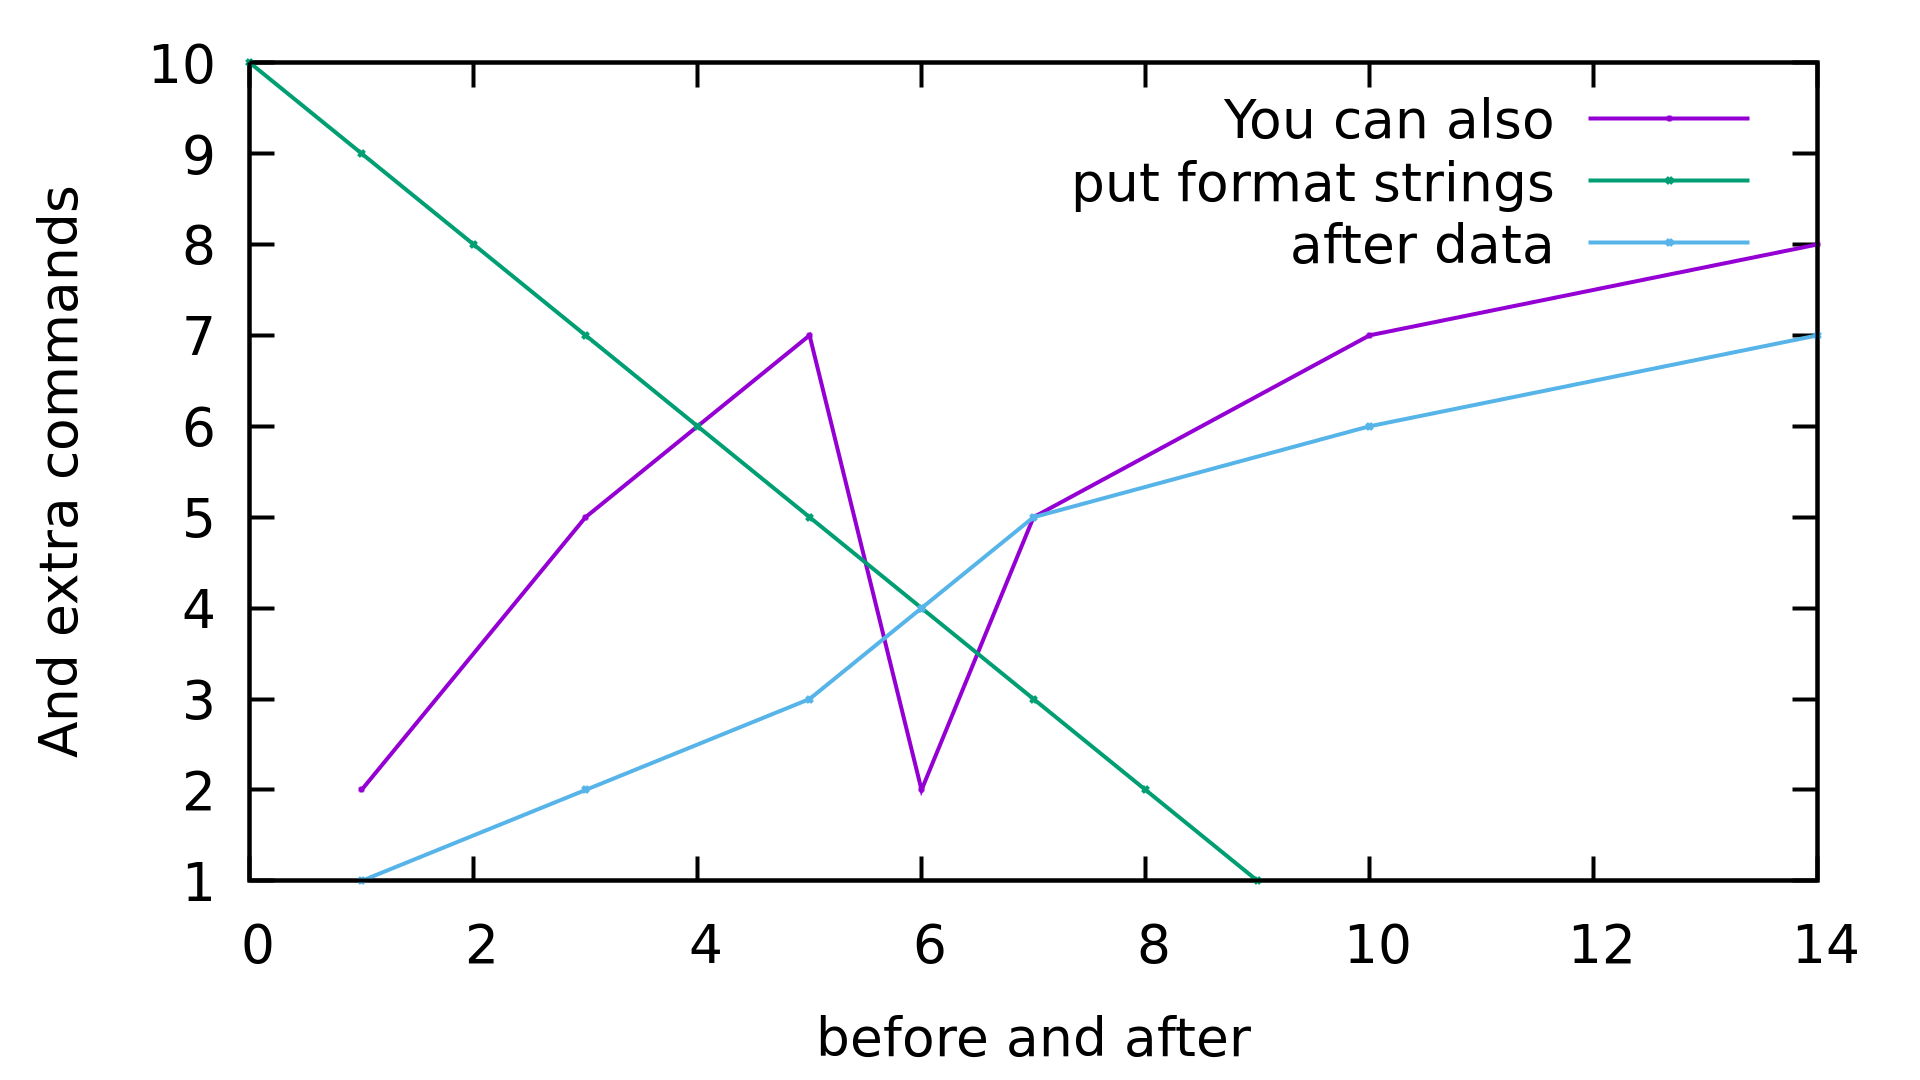
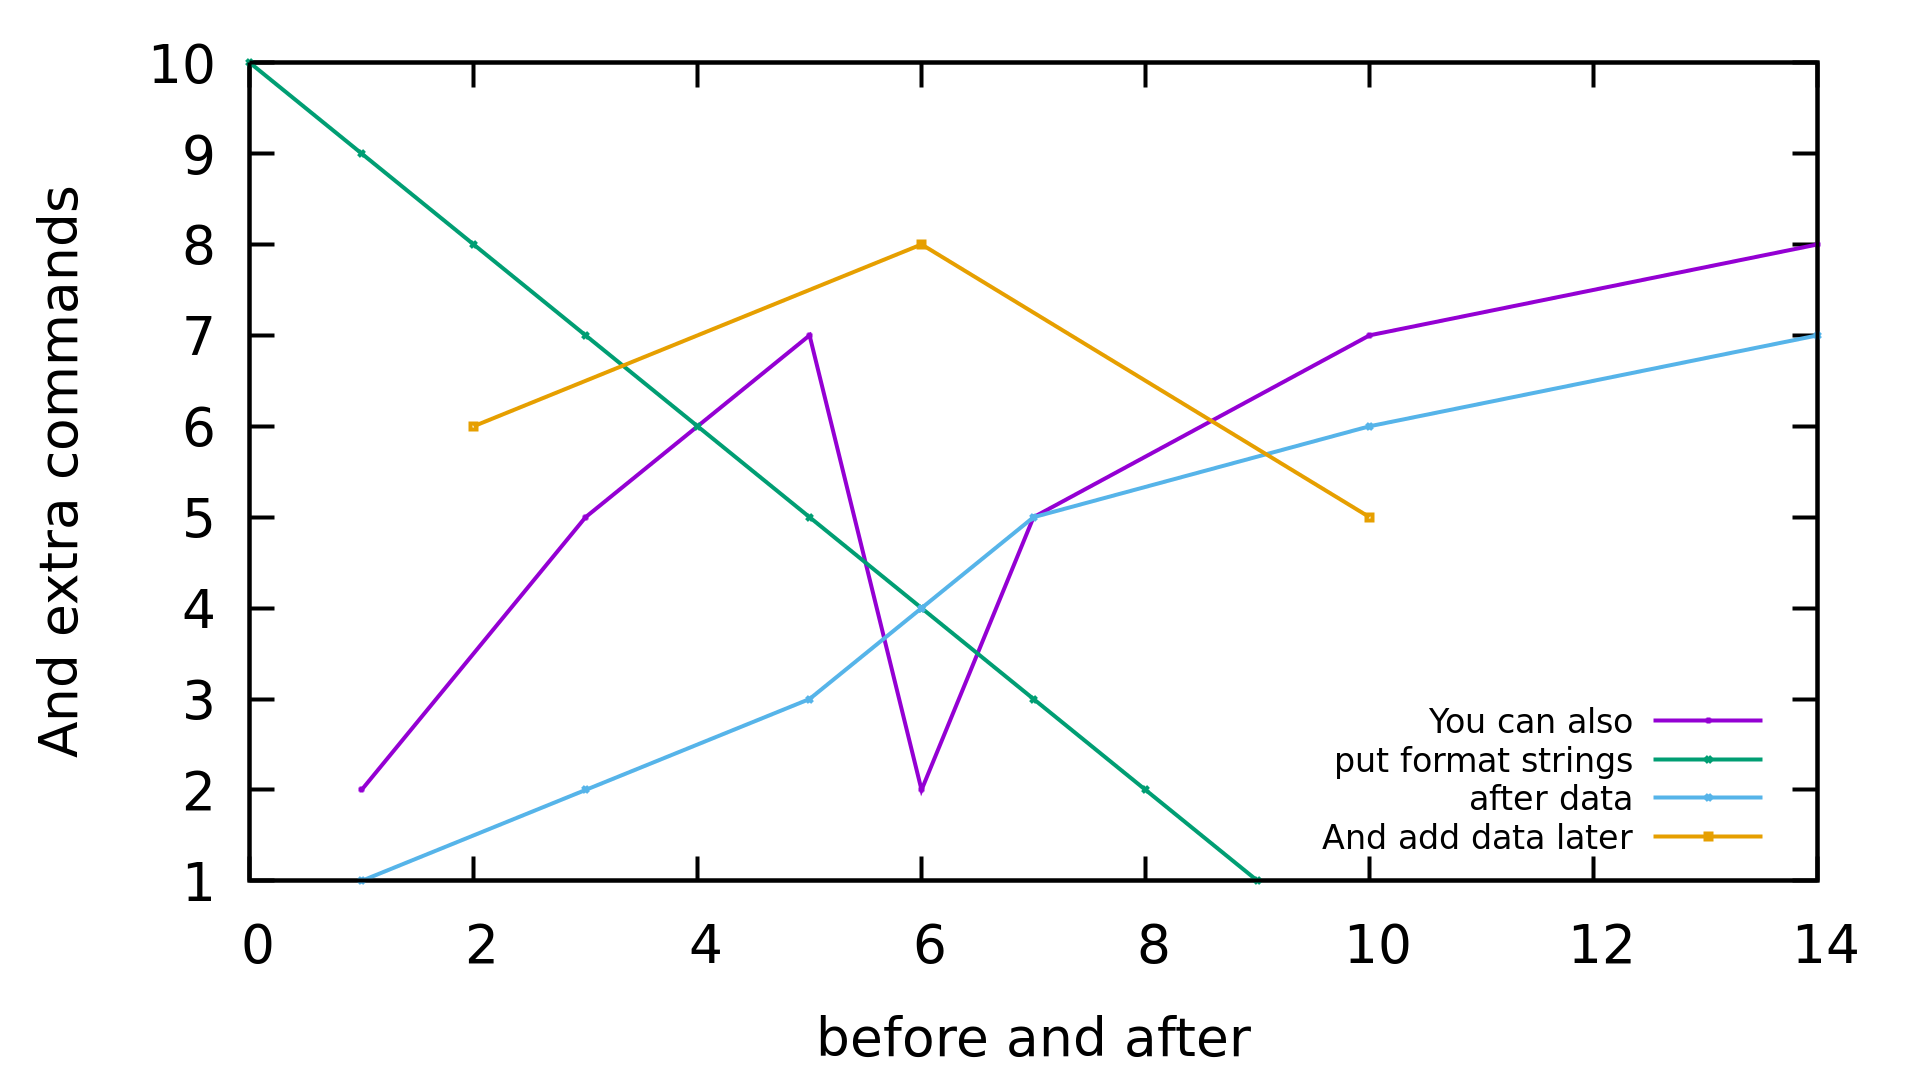
Add 3d plotting to README

diff --git a/README.md b/README.md
@@ -5,6 +5,7 @@ Interact with gnuplot via common lisp in a simple, intuitive manner. Made specif
 # Quick Example
 ```
 (require 'cl-gnuplot)
+(plt:reset)
 (plt:plot (plt:basic-read-file "./resources/quick-example-file.txt" :manual-delim #\tab) "w lp title 'Sample 1'"
           :yrange "[*:2e6]"
           :xlabel "'Raman Shift (1/cm)'"
@@ -18,28 +19,45 @@ Interact with gnuplot via common lisp in a simple, intuitive manner. Made specif
                    :add t)
 (plt:save-last-plot "pngcairo lw 4 font ',40' size 1920,1080" "./resources/quick-example.png")
 ```
-![quick-example](./resources/quick-example.png "Quick Data Loading and Plotting")
+![quick-example](./resources/quick-example.png "Quick Data Loading and 2D Plotting")
 
 # 2D Plotting
+Default is "with linespoints" ("w lp"). You must use a format string with "with lines" ("w l") or "with points" ("w p") do just do one or the other.
 ```
 (require 'cl-gnuplot)
+(plt:reset)
 (plt:plot '((1 2) (3 5) (5 7) (6 2) (7 5) (10 7) (14 8)) ;; 2d data as pairs of xy data
           '(1 3 5 6 7 10 14) '(1 2 3 4 5 6 7) ;; 2d data as a list of x and a list of y data
-		  '(10 9 8 7 6 5 4 3 2 1) ;; 2d data as just a list of y data (assuming 0,1,2... as x data)
-		  )
+          '(10 9 8 7 6 5 4 3 2 1) ;; 2d data as just a list of y data (assuming 0,1,2... as x data)
+          )
 (plt:plot plt::example-2d-data "w lp title 'You can also'"
           '(10 9 8 7 6 5 4 3 2 1) "w lp title 'put format strings'"
-		  '(1 3 5 6 7 10 14) '(1 2 3 4 5 6 7) "w lp title 'after data'"
-		  :ylabel "'And extra commands'"
+          '(1 3 5 6 7 10 14) '(1 2 3 4 5 6 7) "w lp title 'after data'"
+          :ylabel "'And extra commands'"
           :xlabel "'before and after'")
+(plt:plot-add '((2 6) (6 8) (10 5)) "w lp title 'And add data later'"
+          :key "bottom right font ',25'")
 (plt:save-last-plot "pngcairo lw 4 font ',40' size 1920,1080" "./resources/2d-plotting.png")
 ```
 ![2d-plotting](./resources/2d-plotting.png "2D Plotting")
 
 # 3D Plotting
+Default is "with pm3d". You must use a format string "with lines" ("w l") to do wireframe style plots.
 ```
-
+(require 'cl-gnuplot)
+(plt:reset)
+(plt:plot :terminal "qt lw 4 font ',25' size 1920,1080"
+          '(((0 0 5) (1 0 10) (2 0 0))
+            ((0 1 0) (1 1 5) (2 1 0))
+            ((0 2 5) (1 2 0) (2 2 0))) "w l pal title 'Top'" ;; 3d data as sets of xyz data
+          '(-1 0 1) '(-2 0 2) 
+          '((-4 -3 -2) (-4 -5 -6) (0 0 -1)) "w l pal title 'Bottom'" ;; 3d data as x list, y list, then z matrix
+          :hidden3d ""
+          :xlabel "'X'" :ylabel "'Y'" :zlabel "'Z'" :cblabel "'cb'"
+          :view "50,20")
+(plt:save-last-plot "pngcairo lw 4 font ',25' size 1920,1080" "./resources/3d-plotting.png")
 ```
+![3d-plotting](./resources/3d-plotting.png "3D Plotting")
 
 # Typical Commands
 
